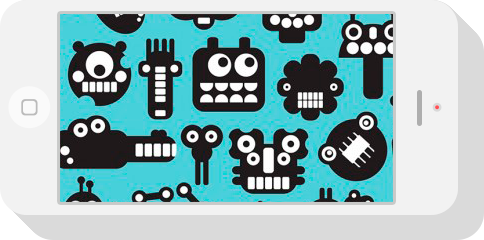
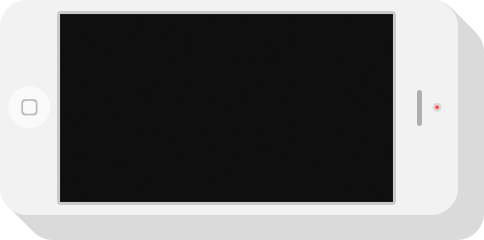
feat: add Phone Click Handler

diff --git a/script.js b/script.js
@@ -1,17 +1,37 @@
 window.onload = function () {
 
   addNavClickHandler();
+  addPhoneClickHandler();
 }
 
 const addNavClickHandler = () => {
-  const navTab = document.getElementById('navigation');
-  navTab.addEventListener('click', (event) => {
-    // отменяю стандартный переход по ссылке, чтобы задать отступ для фиксированного хэдера
-    event.preventDefault();
-    let id = event.target.getAttribute('href').slice(1);
-    let section = document.getElementById(id).getBoundingClientRect().top + pageYOffset - 95;
-    window.scrollTo(0, section);
-    navTab.querySelectorAll('a').forEach(el => el.classList.remove('navigation__item_active'));
-    event.target.classList.add('navigation__item_active');
+  document.addEventListener('scroll', onScroll => {
+    const currentPos = window.scrollY;
+    const sections = document.querySelectorAll('main > section');
+    const links = document.querySelectorAll('#navigation > a');
+    console.log(sections);
+    console.log(links);
+    sections.forEach((el) => {
+      if (el.offsetTop <= currentPos && (el.offsetTop + el.offsetHeight) > currentPos) {
+        links.forEach((link) => {
+          link.classList.remove('navigation__item_active');
+          if (el.getAttribute('id') === link.getAttribute('href').substring(1)) {
+            link.classList.add('navigation__item_active');
+          }
+        })
+      }
+    });
+  });
+}
+
+const addPhoneClickHandler = () => {
+  const phones = document.querySelectorAll('.phone__image');
+  const HIDDEN = "phone__screen_hidden";
+  phones.forEach((phone) => {
+    phone.addEventListener('click', onClick => {
+      const img = phone.nextElementSibling;
+      console.log(img.classList);
+      img.classList.contains(HIDDEN) ? img.classList.remove(HIDDEN) : img.classList.add(HIDDEN);
+    });
   });
 }

diff --git a/style.css b/style.css
@@ -6,18 +6,18 @@
   box-sizing: border-box;
 }
 
-html{
-  font-size: 10px;
-}
 
-body{
+body, html{
+  font-size: 10px;
   font-family: Lato, sans-serif;
+  scroll-behavior: smooth;
 }
 
 .wrapper{
   width: 940px;
   margin: 0 auto;  
 }
+
 
 h2{
   font-size: 3rem;
@@ -45,11 +45,11 @@ h3{
 /*  Header  */
 
 .header{
+  width: 100%;
   height: 95px;
-  box-sizing: border-box;
   background-color: #2d303a;
   border-bottom: solid 6px #323746;
-  position: sticky;
+  position: fixed;
   top:0;
   z-index: 999;
 }
@@ -109,12 +109,18 @@ h3{
 /* Home Section */
 
 .home{
+  padding-top: 150px;
   background-color: #f06c64;
   padding-bottom: 62px;
 }
 
 .slider{
   position: relative;
+}
+
+.slider__slide{
+  display: flex;
+  align-items: center;
 }
 
 .slider__arrows{          
@@ -146,18 +152,46 @@ h3{
   transform: scale(-1, 1);
 }
 
-.phones__image{
+.phone{
   display: inline-block;
+  position: relative;
 }
 
-.phones__image_vertical{
-  margin: 53px 0 0 72px;
+.phone_vertical{
+  margin-left: 100px;
 }
 
-.phones__image_horizontal{
-  margin: 0 0 122px 72px;
+.phone_horizontal{
+  margin-left: 50px;
 }
 
+.phone__image:hover{
+  cursor: pointer;
+}
+
+.phone__image_vertical{
+}
+
+.phone__image_horizontal{
+}
+
+.phone__screen{
+  position: absolute;
+}
+
+.phone__screen_hidden{
+  display: none;
+}
+
+.phone__screen_yellow{
+  top: 62px;
+  left: 11px;
+}
+
+.phone__screen_blue{
+  top: 11px;
+  left: 57px;
+}
 /* Services Section */
 
 .services{

diff --git a/index.html b/index.html
@@ -34,10 +34,18 @@
             <button class="slider__arrow slider__arrow_right"></button>
           </div>
           <div class="slider__slide">
-            <img class="phones__image phones__image_vertical" src="assets/iphone-vertical.png" alt="iPhone" width="240"
-              height="483">
-            <img class="phones__image phones__image_horizontal" src="assets/iphone-horizontal.png" alt="iPhone"
-              width="484" height="240">
+            <div class="phone phone_vertical">
+              <img class="phone__image phone__image_vertical" src="assets/iphone-vertical.png" alt="iPhone" width="240"
+                height="483">
+              <img class="phone__screen phone__screen_yellow" src="assets/screen-yellow.jpg" alt="pattern" width="194"
+                height="339">
+            </div>
+            <div class="phone phone_horizontal">
+              <img class="phone__image phone__image_horizontal" src="assets/iphone-horizontal.png" alt="iPhone"
+                width="484" height="240">
+              <img class="phone__screen phone__screen_blue" src="assets/screen-blue.jpg" alt="pattern" height="194"
+                width="339">
+            </div>
           </div>
         </div>
       </div>
